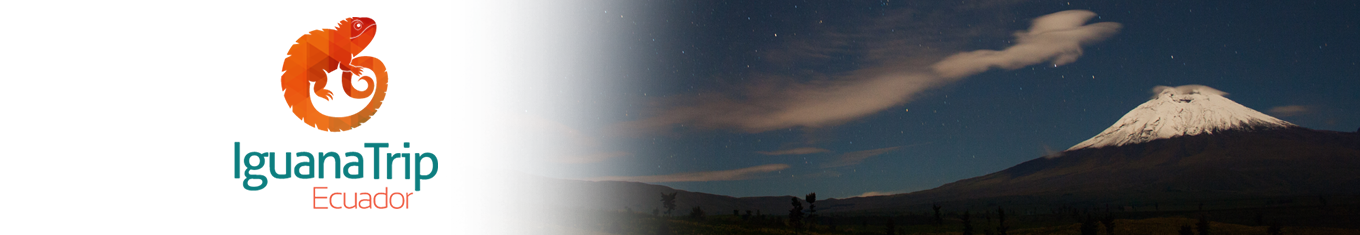
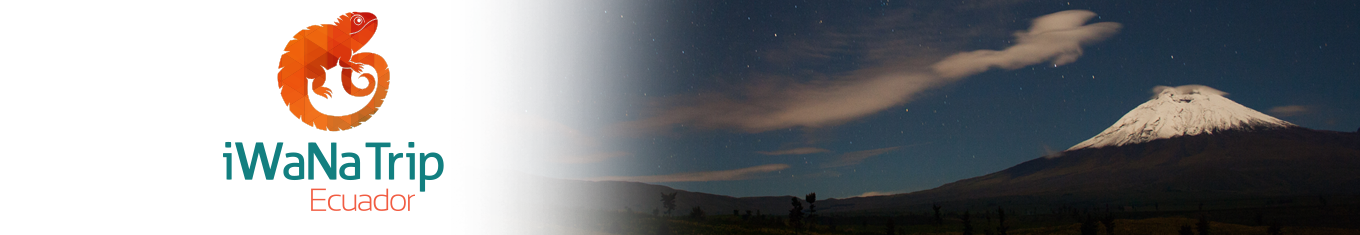
map

Changed region(s): [[0.1544, 0.5957, 0.3397, 0.8936], [0.1853, 0.0298, 0.3088, 0.4468], [0.2162, 0.4468, 0.2779, 0.566]]

diff --git a/public/public_components/css/style.css b/public/public_components/css/style.css
@@ -7503,7 +7503,7 @@ ul.filter-categories > li li:last-child {
 
 /* google map */
 .soap-google-map {
-  height: 680px;
+  height: 480px;
 }
 .soap-google-map img {
   max-width: none;

diff --git a/resources/views/public_page/front/detalleAtracciones.blade.php b/resources/views/public_page/front/detalleAtracciones.blade.php
@@ -190,6 +190,9 @@
                                         <p>{!!$atraccion->como_llegar2!!}</p>
                                         <p>{!!$atraccion->como_llegar2_2!!}</p>
                                         
+                                          <div class="soap-google-map">
+                
+            </div>
                                     </div>
                                 </div>
                                 <div id="tab3-3" class="tab-content panel entry-content ">
@@ -593,6 +596,9 @@
     <!-- Magnific Popup core JS file -->
     <script type="text/javascript" src="{{ asset('public_components/components/magnific-popup/jquery.magnific-popup.min.js')}}"></script> 
 
+     <!-- Google Map Api -->
+    <script type='text/javascript' src="http://maps.google.com/maps/api/js?sensor=false&amp;language=en"></script>
+    <script type="text/javascript" src="{{ asset('public_components/js/gmap3.js')}}"></script>
     <!-- parallax -->
     <script type="text/javascript" src="{{ asset('public_components/js/jquery.stellar.min.js')}}"></script>
 
@@ -809,6 +815,37 @@
         .jssora12r.jssora12rdn { background-position: -315px -37px; }
     </style>
     @endif
+    <script type="text/javascript">
+        sjq(".soap-google-map").gmap3({
+            map: {
+                options: {
+                    center: [{!!$atraccion->latitud_servicio!!},{!!$atraccion->longitud_servicio!!}],
+                    zoom: 15,
+					mapTypeControlOptions: {
+						position: google.maps.ControlPosition.RIGHT_BOTTOM
+					},
+					zoomControlOptions: {
+						position: google.maps.ControlPosition.LEFT_CENTER
+					},
+					panControlOptions: {
+						position: google.maps.ControlPosition.LEFT_CENTER
+					}
+                }
+            },
+            marker:{
+                values: [
+                    {latLng:[ {!!$atraccion->latitud_servicio!!},{!!$atraccion->longitud_servicio!!}], data:"Ecuador"}
+                    
+
+                ]
+                //,
+                //options: {
+                  //  draggable: false,
+                    //icon: "{!!asset("img/CollageIsmage_opt.png")!!}",
+                //},
+            }
+        });
+    </script>
 
     <!-- load page Javascript -->
     <script type="text/javascript" src="{{ asset('public_components/js/main.js')}}"></script>

diff --git a/resources/views/public_page/front/homePage.blade.php b/resources/views/public_page/front/homePage.blade.php
@@ -122,7 +122,7 @@
                                  data-elementdelay="0.1" data-splitout="none"
                                  data-splitin="none" data-easing="Power3.easeInOut"
                                  data-start="1000" data-speed="300" data-voffset="-79" 
-                                 data-y="5" data-x="-280" class="tp-caption sfl fadeout start">
+                                 data-y="35" data-x="-280" class="tp-caption sfl fadeout start">
                                 <img alt="" src="{{ asset('img/index-logo.png')}}" >
                             </div>
 

diff --git a/app/Repositories/PublicServiceRepository.php b/app/Repositories/PublicServiceRepository.php
@@ -66,10 +66,6 @@ class PublicServiceRepository extends BaseRepository {
             }
 
 
-
-
-
-
             $imagenesF = DB::table('images')
                     ->join('usuario_servicios', 'usuario_servicios.id', '=', 'images.id_usuario_servicio')
                     ->join('catalogo_servicios', 'usuario_servicios.id_catalogo_servicio', '=', 'catalogo_servicios.id_catalogo_servicios')
